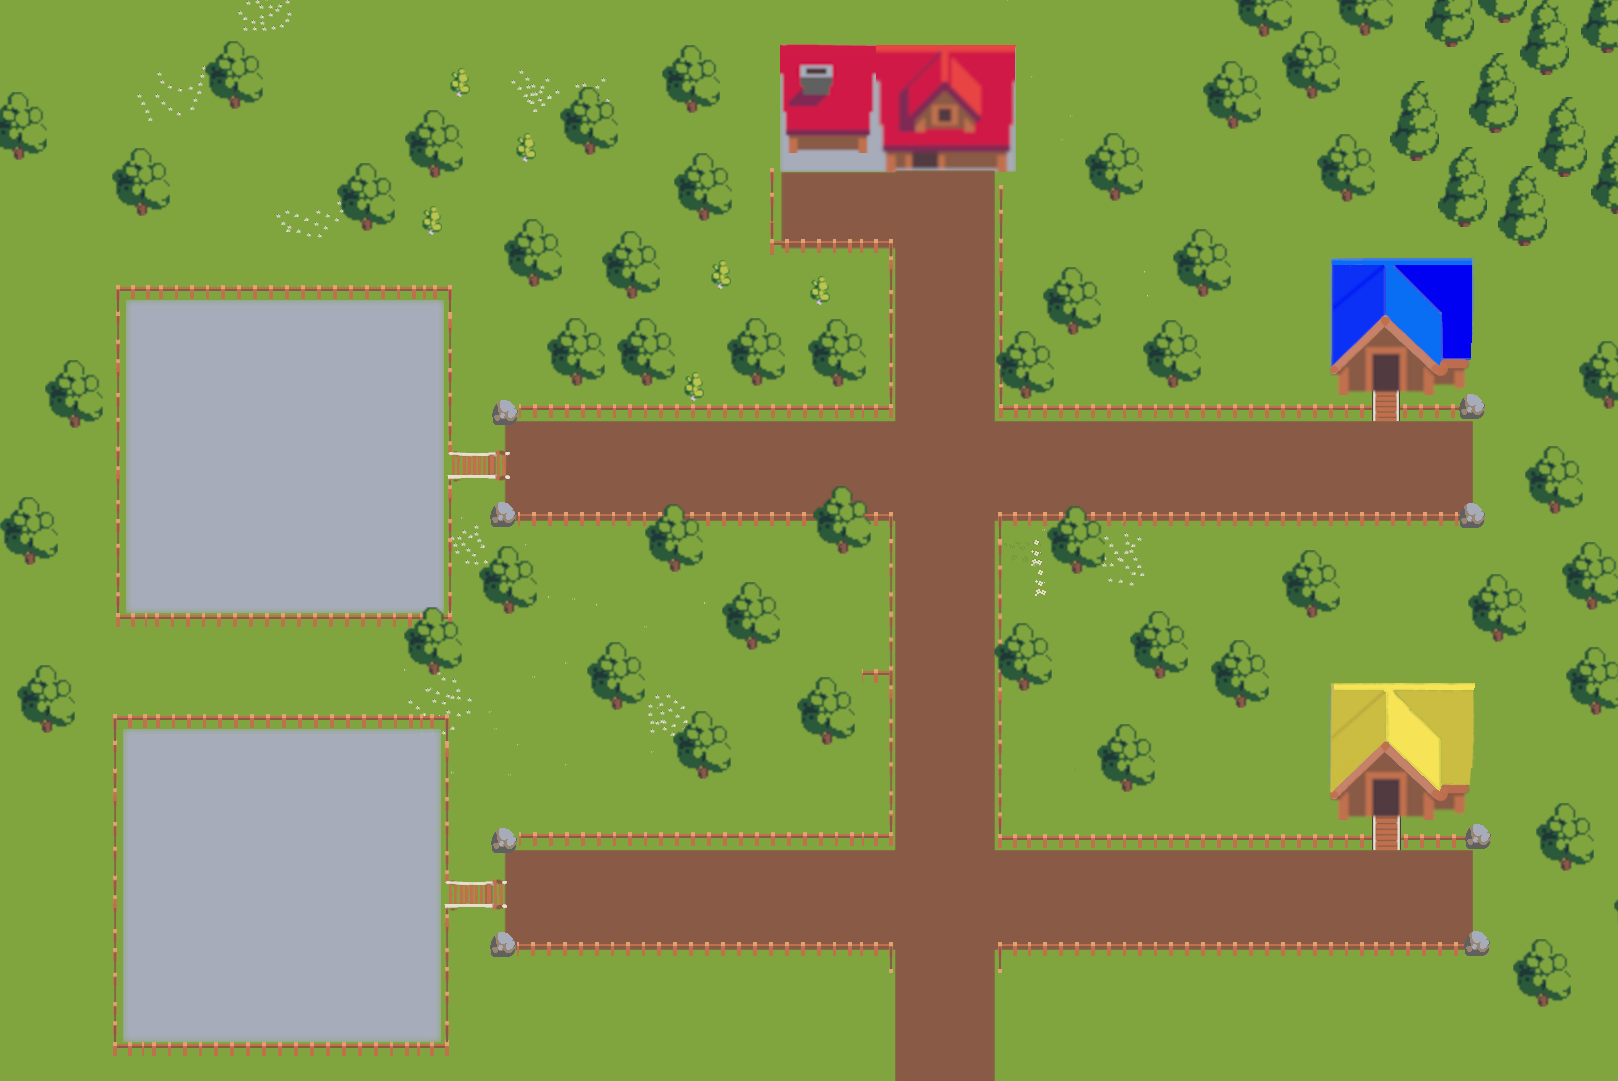
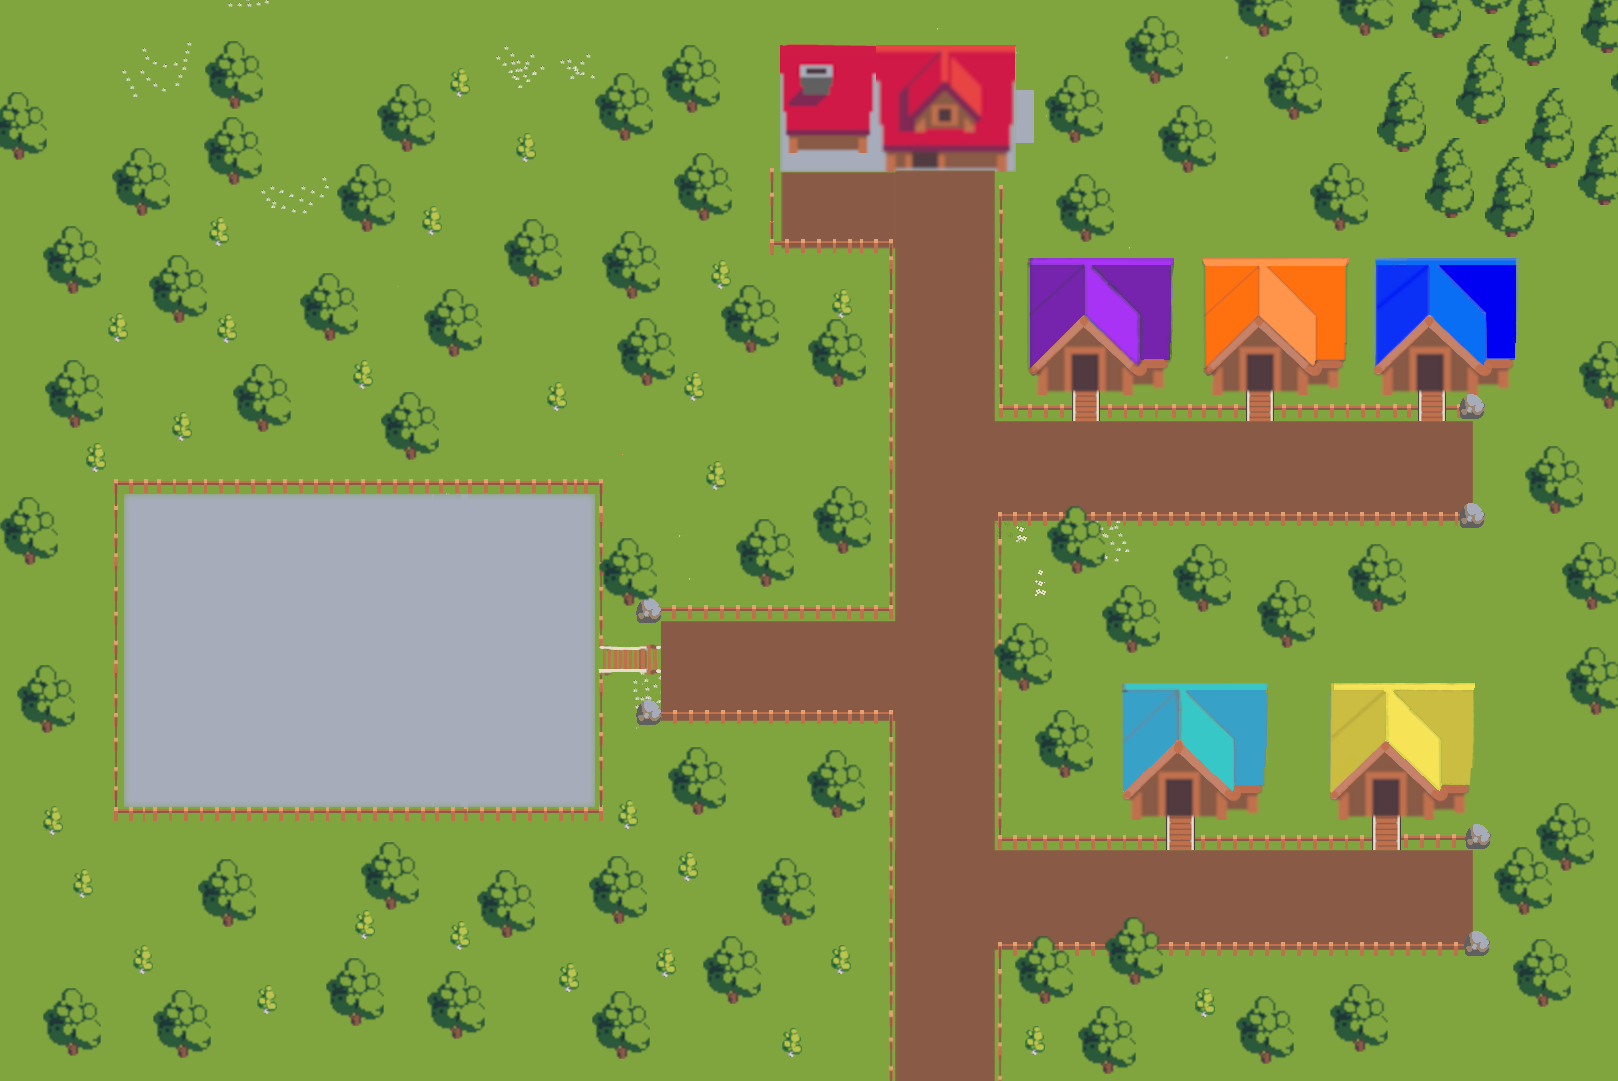
Add new map image, and create better button for entering build area

diff --git a/src/main/java/worldofzuul/presentation/SceneController.java b/src/main/java/worldofzuul/presentation/SceneController.java
@@ -23,7 +23,7 @@ public class SceneController {
     private Button btnHouse, btnHelp, btnNextYear;
 
     @FXML
-    private Button btnSolarPanelShop, btnWindturbineShop, btnBatteryShop, btnRetailShop, btnFossilShop;
+    private Button btnSolarPanelShop, btnWindturbineShop, btnBatteryShop, btnRetailShop, btnFossilShop, btnBuildArea;
 
     @FXML
     private URL location;
@@ -34,7 +34,7 @@ public class SceneController {
     @FXML
     private void initialize() {
         if (buildArea != null) {
-            this.buildArea.getChildren().add(new BuildGrid(new Point2D(48, 112), 8, 13, 13));
+            this.buildArea.getChildren().add(new BuildGrid(new Point2D(47, 184), 7, 25, 16));
         }
     }
 
@@ -97,20 +97,17 @@ public class SceneController {
         window.setScene(new Scene(root, 600, 400));
     }
 
-    @FXML
-    Label labelBuildArea;
-
-    public void handleLabelBuildArea() throws IOException {
+    public void handleBtnBuildArea() throws IOException {
         Parent root = FXMLLoader.load(getClass().getResource(("/worldofzuul.presentation/buildArea.fxml")));
 
-        Stage window = (Stage) labelBuildArea.getScene().getWindow();
+        Stage window = (Stage) btnBuildArea.getScene().getWindow();
         window.setScene(new Scene(root, 600, 400));
     }
 
     public void handleBtnFossilShop(ActionEvent actionEvent) throws IOException {
         Parent root = FXMLLoader.load(getClass().getResource(("/worldofzuul.presentation/Fossil energyshop.fxml")));
 
-        Stage window = (Stage) labelBuildArea.getScene().getWindow();
+        Stage window = (Stage) btnFossilShop.getScene().getWindow();
         window.setScene(new Scene(root, 600, 400));
     }
 }
